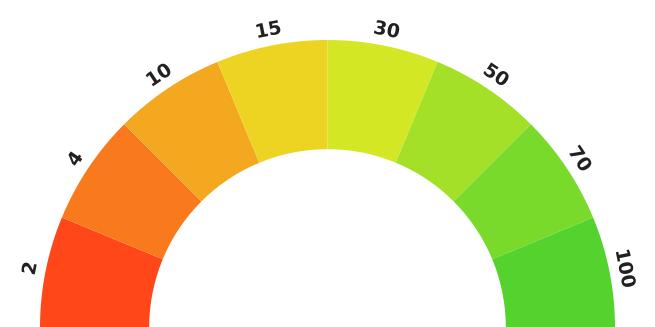
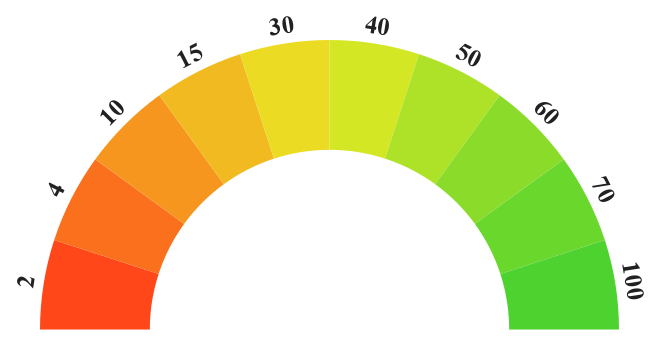
Config colors corrected.Images dusted.

diff --git a/UVMeters/src/core/config.js b/UVMeters/src/core/config.js
@@ -3,36 +3,44 @@ const config = {
 		UVB:
 		{
 			'#ff471aff': {
-				segment: 12.5, protection: '50%', spf: '2',
-				angle: '-78.75deg',
+				protection: '50%', spf: '2',
+				angle: '-81deg',
 			},
-			'#f97a1dff': {
-				segment: 25, protection: '75%', spf: '4',
-				angle: '-56.25deg',
+			'#fa701cff': {
+				protection: '75%', spf: '4',
+				angle: '-63deg',
 			},
-			'#f3a81fff': {
-				segment: 37.5, protection: '90%', spf: ' 10',
-				angle: '-33.75deg',
+			'#f6961eff': {
+				protection: '90%', spf: '10',
+				angle: '-45deg',
 			},
-			'#edd322ff': {
-				segment: 50, protection: '93%', spf: '15',
-				angle: '-11.25deg',
+			'#f1ba20ff': {
+				protection: '93%', spf: '15',
+				angle: '-27deg',
+			},
+			'#ecdb23ff': {
+				protection: '97%', spf: '30',
+				angle: '-9deg',
 			},
 			'#d4e725ff': {
-				segment: 62.5, protection: '97%', spf: '30',
-				angle: '11.25deg',
+				protection: '97.5%', spf: '40',
+				angle: '9deg',
 			},
-			'#a5e028ff': {
-				segment: 75, protection: '98%', spf: '50',
-				angle: '33.75deg',
+			'#aee228ff': {
+				protection: '98%', spf: '50',
+				angle: '27deg',
 			},
-			'#7ada2cff': {
-				segment: 87.5, protection: '56.5%', spf: '70',
-				angle: '56.25deg',
+			'#8bdc2aff': {
+				protection: '98.3%', spf: '60',
+				angle: '45deg',
 			},
-			'#54d32fff': {
-				segment: 100, protection: '99%', spf: '100',
-				angle: '78.75deg',
+			'#6ad72dff': {
+				protection: '98.5%', spf: '70',
+				angle: '63deg',
+			},
+			'#4dd230ff': {
+				protection: '99%', spf: '100',
+				angle: '81deg',
 			},
 		},
 		UVA:

diff --git a/UVMeters/src/components/UVAMeter.js b/UVMeters/src/components/UVAMeter.js
@@ -4,7 +4,7 @@ import DisplayUVAText from './DisplayUVAText';
 
 const UVAMeter = (context) => {
 	const parent = '/images/UVADial.png';
-	const needle = '/images/UVANeedle.png';
+	const needle = '/images/needle.png';
 
 	return <div className="display-meter">
 		<DisplayUVAText { ...{ ...context, data: { type: 'UVA' }} }/>
@@ -13,7 +13,7 @@ const UVAMeter = (context) => {
 			data: { parent: parent, needle: needle, type: 'UVA' },
 		} }
 		/>
-		<h4 className="spf-label">SPF</h4>
+		<h4 className="spf-label">PF</h4>
 	</div>;
 };
 

diff --git a/UVMeters/src/components/ImageMap.js b/UVMeters/src/components/ImageMap.js
@@ -1,6 +1,8 @@
 import React from 'react';
 import Mask from './Mask';
 
+import { peek } from '@laufire/utils/debug';
+
 // eslint-disable-next-line max-lines-per-function
 const ImageMap = (context) => {
 	const { config: { segments }, state, setState,
@@ -9,6 +11,8 @@ const ImageMap = (context) => {
 	const getSegment = (props) => {
 		const { value } = props;
 		const gotSegment = segments[type][value];
+
+		peek(value);
 
 		gotSegment
 		&& setState((prevState) => ({ ...prevState, [type]: gotSegment }));

diff --git a/UVMeters/src/components/UVBMeter.js b/UVMeters/src/components/UVBMeter.js
@@ -4,7 +4,7 @@ import DisplayUVBText from './DisplayUVBText';
 
 const UVBMeter = (context) => {
 	const parent = '/images/UVBDial.png';
-	const needle = '/images/UVBNeedle.png';
+	const needle = '/images/needle.png';
 
 	return <div className="display-meter">
 		<DisplayUVBText { ...{ ...context, data: { type: 'UVB' }} }/>

diff --git a/UVMeters/src/App.js b/UVMeters/src/App.js
@@ -8,7 +8,7 @@ const App = (context) => {
 
 	const [state, setState] = useState({
 		UVA: segments.UVA['#d4e725ff'],
-		UVB: segments.UVB['#d4e725ff'],
+		UVB: segments.UVB['#ecdb23ff'],
 	});
 
 	const extendedContext = { ...context, state, setState };

diff --git a/UVMeters/src/App.scss b/UVMeters/src/App.scss
@@ -44,7 +44,8 @@
 	}
 
 	.spf-label {
-		margin-top: 0;
+		margin-top: 0em;
+		font-size: 1.5em;
 	}
 
 	.display-meter {
